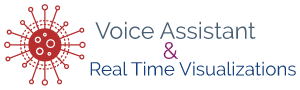
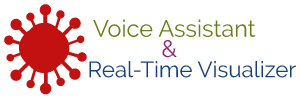
update styling

Changed region(s): [[0.0, 0.0222, 0.99, 0.9556], [0.66, 0.2, 0.69, 0.2222]]

diff --git a/src/components/cards/Cards.js b/src/components/cards/Cards.js
@@ -1,5 +1,5 @@
 import React from 'react'
-import { Card, CardContent, Typography, Grid } from '@material-ui/core'
+import { Card, CardContent, Typography, Grid} from '@material-ui/core'
 import styles from './Cards.module.css'
 import CountUp from 'react-countup' // counter animation
 import cx from 'classnames' // links classes together to apply styling for  multiple classes
@@ -11,28 +11,39 @@ const Cards = ({ data: { confirmed, recovered, deaths, lastUpdate } }) => { // d
     }
 
     return (
-        <div className = {styles.container}>
-            <Grid container spacing = {3} justify = "center">
+        <div className = {styles.container}  >
+            <Grid container spacing = {3} justify = "center" >
                 <Grid item component = {Card} xs = {12} md = {3} className = {cx(styles.card, styles.infected)}>
                     <CardContent>
-                        <Typography color = "textSecondary" gutterBottom>
-                            Infected
+                        <Typography color = "textPrimary" gutterBottom>
+                            Total cases
                         </Typography>
                         <Typography variant = "h5">
                             <CountUp start = {0} end = {confirmed.value} duration = {2.5} separator = ",">
                             </CountUp>
                         </Typography>
                         <Typography color = "textSecondary">
-                            {new Date(lastUpdate).toDateString()} {/* human readable format of lastUpdate  */}
+                            {`Updated: ${new Date(lastUpdate).toDateString()}`} {/* human readable format of lastUpdate  */}
                         </Typography>
-                        <Typography variant = "body2">
-                            Number of active cases
+                    </CardContent>
+                </Grid>
+                <Grid item component = {Card} xs = {12} md = {3} className = {cx(styles.card, styles.active)}>
+                    <CardContent>
+                        <Typography color = "textPrimary" gutterBottom>
+                            Active
+                        </Typography>
+                        <Typography variant = "h5">
+                            <CountUp start = {0} end = {confirmed.value - recovered.value - deaths.value} duration = {2.5} separator = ",">
+                            </CountUp>
+                        </Typography>
+                        <Typography color = "textSecondary">
+                            {`Updated: ${new Date(lastUpdate).toDateString()}`} {/* human readable format of lastUpdate  */}
                         </Typography>
                     </CardContent>
                 </Grid>
                 <Grid item component = {Card} xs = {12} md = {3} className = {cx(styles.card, styles.recovered)}>
                     <CardContent>
-                        <Typography color = "textSecondary" gutterBottom>
+                        <Typography color = "textPrimary" gutterBottom>
                             Recovered
                         </Typography>
                         <Typography variant = "h5">
@@ -40,16 +51,13 @@ const Cards = ({ data: { confirmed, recovered, deaths, lastUpdate } }) => { // d
                             </CountUp>
                         </Typography>
                         <Typography color = "textSecondary">
-                            {new Date(lastUpdate).toDateString()} {/* human readable format of lastUpdate  */}
-                        </Typography>
-                        <Typography variant = "body2">
-                            Number of recoveries
+                            {`Updated: ${new Date(lastUpdate).toDateString()}`} {/* human readable format of lastUpdate  */}
                         </Typography>
                     </CardContent>
                 </Grid>
                 <Grid item component = {Card} xs = {12} md = {3} className = {cx(styles.card, styles.deaths)}>
                     <CardContent>
-                        <Typography color = "textSecondary" gutterBottom>
+                        <Typography color = "textPrimary" gutterBottom>
                             Deaths
                         </Typography>
                         <Typography variant = "h5">
@@ -57,10 +65,7 @@ const Cards = ({ data: { confirmed, recovered, deaths, lastUpdate } }) => { // d
                             </CountUp>
                         </Typography>
                         <Typography color = "textSecondary">
-                            {new Date(lastUpdate).toDateString()} {/* human readable format of lastUpdate  */}
-                        </Typography>
-                        <Typography variant = "body2">
-                            Number of deaths
+                            {`Updated: ${new Date(lastUpdate).toDateString()}`} {/* human readable format of lastUpdate  */}
                         </Typography>
                     </CardContent>
                 </Grid>

diff --git a/src/components/chart/Chart.js b/src/components/chart/Chart.js
@@ -19,21 +19,26 @@ const Chart = ({data: { confirmed, deaths, recovered}, country}) => { // destruc
     // returns an array with 71 objects from dailyData API call
     const lineChart = (
 
-        dailyData[0] ? (<Line
+        dailyData[0] ? (
+            <Line
                 data = {{ // two braces for dynamic object
                 labels: dailyData.map(({date}) => date), // returns an array -  displaying dates from dailyData and displaying them as labels after destructuring the date
                 datasets: [{
                     data: dailyData.map(({confirmed}) => confirmed), // note: dailyData is not a function but rather an array and hence we map
-                    label: 'Infected',
-                    borderColor: '#3333ff',
+                    label: 'Total cases',
+                    borderColor: 'rgb(108, 92, 231)',
                     fill:true
                 }, {
                     data: dailyData.map(({deaths}) => deaths),
                     label: 'Deaths',
-                    borderColor: 'rgba(255,0,0,0.5)',
+                    borderColor: 'rgb(225, 112, 85)',
                     fill:true
-                }],
-                }}
+                }, {
+                    data: dailyData.map(({recovered}) => recovered),
+                    label: 'Recovered',
+                    borderColor: 'rgb(0, 184, 148)',
+                    fill:true
+                }]}}
             />) : null
     )
 /* class-based equivalent
@@ -45,12 +50,12 @@ const Chart = ({data: { confirmed, deaths, recovered}, country}) => { // destruc
     const barChart = (
         confirmed ? (
             <Bar data = {{
-                labels: ['Infected', 'Recovered', 'Deaths'],
+                labels: ['Total cases', 'Recovered', 'Deaths'],
                 datasets: [{
                     label: 'People',
-                    backgroundColor: ['rgba(0, 0, 255, 0.5)', 'rgba(0, 255, 0, 0.5)', 'rgba(255, 0, 0, 0.5)'],
+                    backgroundColor: ['rgba(108, 92, 231,0.5)', 'rgba(0, 184, 148,0.5)', 'rgba(225, 112, 85,0.5)'],
                     data: [confirmed.value, recovered.value, deaths.value]
-                },
+                }
                 ],
             }}
                  options = {{legend: {display: false}, title: {display: true, text:`Current state in ${country}`}}}>
@@ -65,6 +70,7 @@ const Chart = ({data: { confirmed, deaths, recovered}, country}) => { // destruc
             {country ? barChart: lineChart }
         </div>
     )
+
 }
 
 export default Chart

diff --git a/public/index.html b/public/index.html
@@ -2,14 +2,21 @@
 <html lang="en">
   <head>
     <meta charset="utf-8" />
-    <link rel="icon" href="%PUBLIC_URL%/favicon.ico" />
     <meta name="viewport" content="width=device-width, initial-scale=1" />
     <meta name="theme-color" content="#000000" />
+
+    <link rel="apple-touch-icon" sizes="180x180" href="/apple-touch-icon.png">
+    <link rel="icon" type="image/png" sizes="32x32" href="/favicon-32x32.png">
+    <link rel="icon" type="image/png" sizes="16x16" href="/favicon-16x16.png">
+    <link rel="manifest" href="/site.webmanifest">
+    <link rel="mask-icon" href="/safari-pinned-tab.svg" color="#5bbad5">
+    <meta name="msapplication-TileColor" content="#da532c">
+    <meta name="theme-color" content="#ffffff">
+
     <meta
       name="description"
       content="Web site created using create-react-app"
     />
-    <link rel="apple-touch-icon" href="%PUBLIC_URL%/logo192.png" />
     <!--
       manifest.json provides metadata used when your web app is installed on a
       user's mobile device or desktop. See https://developers.google.com/web/fundamentals/web-app-manifest/

diff --git a/src/App.js b/src/App.js
@@ -31,10 +31,10 @@ class App extends React.Component{ /* App.js is the only class-based component f
 
         return(
         <div className = {styles.container}>
-            <img className = {styles.image} src = {banner} alt = "COVID-19 Voice Assistant and Real Time Visualizer"/>
-            <Cards data = {data} /> {/* passing data as prop to 'cards' component*/}
-            <Country handleCountryChange = {this.handleCountryChange} /> {/* passing method as prop to 'cards' component*/}
-            <Chart data = {data} country = {country} />
+            <img className = {styles.image} src = {banner} alt = "COVID-19 Voice Assistant and Real Time Visualizer" />
+            <Cards data = {data}  /> {/* passing data as prop to 'Cards' component*/}
+            <Country  handleCountryChange = {this.handleCountryChange} /> {/* passing method as prop to 'Country' component*/}
+            <Chart  data = {data} country = {country} /> {/* passing data and country as prop to 'Chart' component*/}
         </div>
         )
     }

diff --git a/src/components/cards/Cards.module.css b/src/components/cards/Cards.module.css
@@ -1,21 +1,29 @@
 .container{
-    margin: 50px 0;
+    margin: 10px 0;
+    width: 1000px;
 }
 
 .card {
-    margin: 0 2% !important;  /* !important needed since .card is a materialUI element is not being styled inline*/
+    margin: 30px 0 !important; /* !important needed since .card is a materialUI element is not being styled inline*/
 }
 
 .infected {
-    border-bottom: 10px solid rgba(0,0,255,0.5);
+    border-top: 10px solid rgb(108, 92, 231);
+    border-bottom: 10px solid rgb(108, 92, 231);
 }
 
+.active{
+    border-top: 10px solid rgb(9, 132, 227);
+    border-bottom: 10px solid rgb(9, 132, 227);
+}
 .recovered {
-    border-bottom: 10px solid rgba(0,255,0,0.5)
+    border-top: 10px solid rgb(0, 184, 148);
+    border-bottom: 10px solid rgb(0, 184, 148);
 }
 
 .deaths {
-    border-bottom: 10px solid rgba(255,0,0,0.5)
+    border-top: 10px solid rgb(225, 112, 85);
+    border-bottom: 10px solid rgb(225, 112, 85);
 }
 
 @media (max-width: 770px){ /* for mobile devices - top/bottom padding between cards */

diff --git a/src/App.module.css b/src/App.module.css
@@ -1,5 +1,5 @@
 body{
-    background-color: rgb(250, 250, 250);
+    background-color: rgb(223, 230, 233);
 }
 
 .container {
@@ -10,8 +10,8 @@ body{
 }
 
 .image{
-    width: 370px;
-    margin-top: 50px;
+    width: 430px;
+    margin: 10px;
 }
 
 @media (max-width: 770px){  /* for mobile devices */
@@ -20,6 +20,6 @@ body{
     }
 
     .image{
-        wdith: 100%;
+        width: 100%;
     }
 }

diff --git a/src/components/country/Country.module.css b/src/components/country/Country.module.css
@@ -1,4 +1,4 @@
 .formControl{
     width: 30%;
-    margin-bottom: 30px !important; /* ! important needed as styling not done in-line*/
+    margin: 30px !important; /* ! important needed as styling not done in-line*/
 }

diff --git a/src/components/chart/Chart.module.css b/src/components/chart/Chart.module.css
@@ -1,7 +1,8 @@
 .container{
     display: flex;
     justify-content: center;
-    width: 85%;
+    width: 75%;
+    margin: 30px;
 }
 
 @media (max-width: 770px){ /* for mobile devices - making chart larger */
